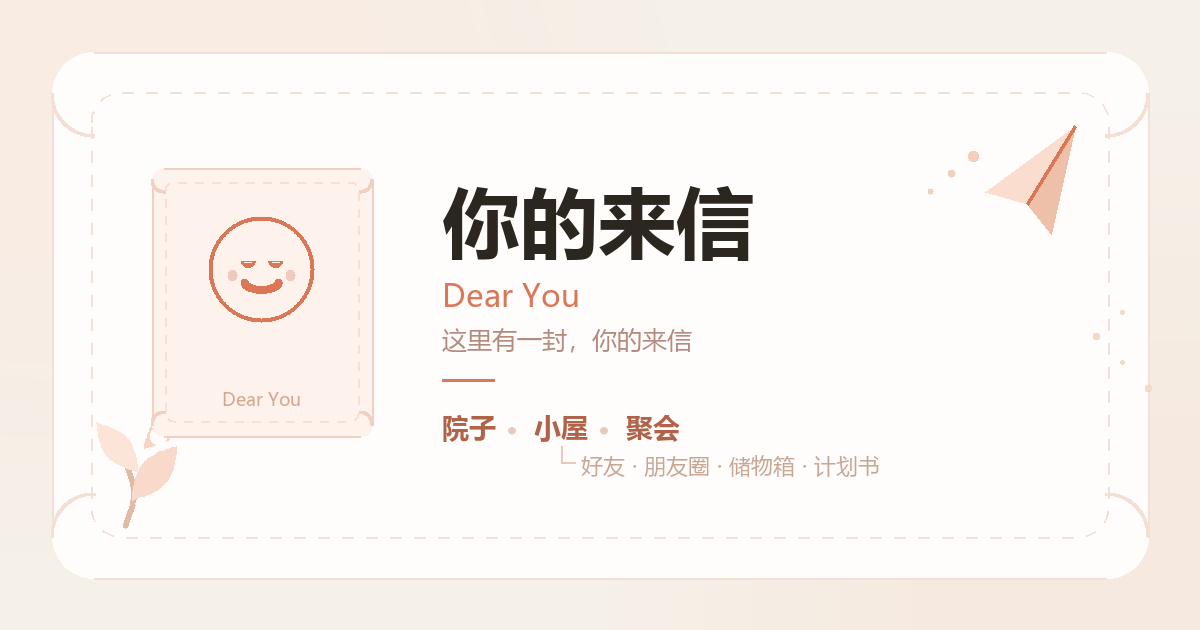
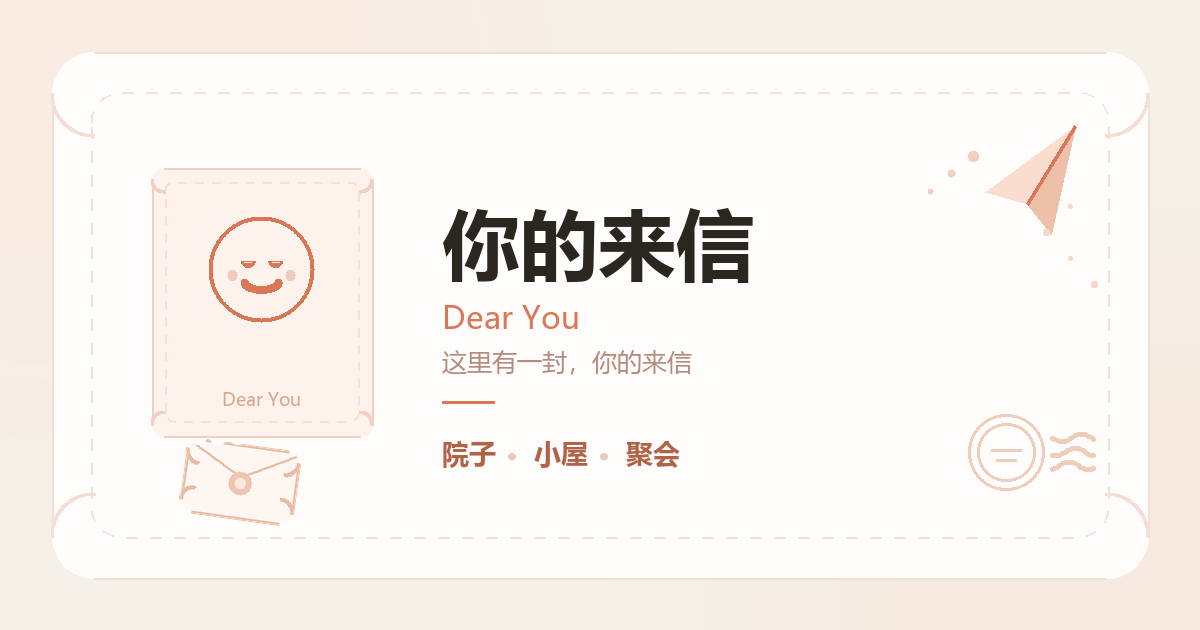
redesign: 分享卡片装饰改为「信」主题，去掉子项列表
你的两条意见：

1「主题不是信嘛」——左下那片叶子确实跑题了。
  装饰统一到「信」上：左下改信封（微倾 + 火漆印），右下加邮戳（双圈 + 日期短线 + 波浪销票纹），
  连同已有的邮票与纸飞机，四处都在同一个主题里。
  （信封是画在独立图层上旋转后贴上去的，免得手算旋转坐标。）

2「这个不要」——删掉 └ 好友 · 朋友圈 · 储物箱 · 计划书 那一整行与连接线，
  底部只留 院子 · 小屋 · 聚会 三个平级区域，干净了。
  同时把标题块整体下移 22px，让右侧重心更稳。

另：右侧小点与信封位置微调，不再压到内层虚线框和邮票。

diff --git a/scripts/make-og-image.py b/scripts/make-og-image.py
@@ -11,9 +11,9 @@
 
 版面：
     纸面 + 白卡 + 内层虚线框（边缘装饰）
-    左侧：邮票（齿孔 + 虚线内框 + 可爱笑脸）
-    右上：纸飞机；左下：叶子小枝；右下：小点
-    右侧：站名 / 英文名 / 一句话 / 三个平级区域 + 小屋的子项（树形连接）
+    左侧：邮票（齿孔 + 虚线内框 + 笑脸）
+    右上：纸飞机；左下：信封；右下：邮戳——装饰元素统一在「信」这个主题上
+    右侧：站名 / 英文名 / 一句话 / 三个平级区域（院子 · 小屋 · 聚会）
 """
 
 import math
@@ -23,7 +23,9 @@ W, H = 1200, 630
 PAPER, CARD = (245, 240, 232), (255, 253, 251)
 ACCENT, DEEP, INK, MUTED = (217, 119, 87), (177, 99, 73), (43, 38, 32), (180, 139, 126)
 LINE, STAMP = (243, 223, 214), (253, 243, 236)
-W1, W2 = (250, 221, 206), (238, 192, 170)
+W1, W2 = (250, 221, 206), (238, 192, 170)          # 纸飞机两翼
+ENV = (233, 190, 168)                              # 信封描边
+POST = (238, 205, 187)                             # 邮戳
 FONT_DIR = "C:/Windows/Fonts/"
 
 img = Image.new("RGB", (W, H), PAPER)
@@ -42,10 +44,10 @@ def text_w(text, font):
         return font.getsize(text)[0]
 
 
-def dots(pts, color, w):
+def dots(dr, pts, color, w):
     r = w / 2.0
     for (x, y) in pts:
-        d.ellipse([x - r, y - r, x + r, y + r], fill=color)
+        dr.ellipse([x - r, y - r, x + r, y + r], fill=color)
 
 
 def arc_pts(cx, cy, rx, ry, a0, a1, n=100, up=True):
@@ -59,22 +61,24 @@ def arc_pts(cx, cy, rx, ry, a0, a1, n=100, up=True):
     ]
 
 
-def rounded(box, r, fill, outline=None, w=2):
+def circle(cx, cy, r, color):
+    d.ellipse([cx - r, cy - r, cx + r, cy + r], fill=color)
+
+
+def rounded_on(dr, box, r, fill=None, outline=None, w=2):
     x0, y0, x1, y1 = box
-    d.rectangle([x0 + r, y0, x1 - r, y1], fill=fill)
-    d.rectangle([x0, y0 + r, x1, y1 - r], fill=fill)
-    for cx, cy in ((x0 + r, y0 + r), (x1 - r, y0 + r), (x0 + r, y1 - r), (x1 - r, y1 - r)):
-        d.ellipse([cx - r, cy - r, cx + r, cy + r], fill=fill)
+    if fill:
+        dr.rectangle([x0 + r, y0, x1 - r, y1], fill=fill)
+        dr.rectangle([x0, y0 + r, x1, y1 - r], fill=fill)
+        for cx, cy in ((x0 + r, y0 + r), (x1 - r, y0 + r), (x0 + r, y1 - r), (x1 - r, y1 - r)):
+            dr.ellipse([cx - r, cy - r, cx + r, cy + r], fill=fill)
     if outline:
-        dots(
-            arc_pts(x0 + r, y0 + r, r, r, 180, 270) + arc_pts(x1 - r, y0 + r, r, r, 270, 360)
-            + arc_pts(x1 - r, y1 - r, r, r, 0, 90) + arc_pts(x0 + r, y1 - r, r, r, 90, 180),
-            outline, w,
-        )
-        d.line([x0 + r, y0, x1 - r, y0], fill=outline, width=w)
-        d.line([x0 + r, y1, x1 - r, y1], fill=outline, width=w)
-        d.line([x0, y0 + r, x0, y1 - r], fill=outline, width=w)
-        d.line([x1, y0 + r, x1, y1 - r], fill=outline, width=w)
+        dots(dr, arc_pts(x0 + r, y0 + r, r, r, 180, 270) + arc_pts(x1 - r, y0 + r, r, r, 270, 360)
+             + arc_pts(x1 - r, y1 - r, r, r, 0, 90) + arc_pts(x0 + r, y1 - r, r, r, 90, 180), outline, w)
+        dr.line([x0 + r, y0, x1 - r, y0], fill=outline, width=w)
+        dr.line([x0 + r, y1, x1 - r, y1], fill=outline, width=w)
+        dr.line([x0, y0 + r, x0, y1 - r], fill=outline, width=w)
+        dr.line([x1, y0 + r, x1, y1 - r], fill=outline, width=w)
 
 
 def dashed_rounded(box, r, color, w=2, seg=11, gap=12):
@@ -111,11 +115,11 @@ def dashed_rounded(box, r, color, w=2, seg=11, gap=12):
 
 
 # ---------- 卡片 + 内层虚线框 ----------
-rounded([52, 52, W - 52, H - 52], 42, CARD, LINE)
+rounded_on(d, [52, 52, W - 52, H - 52], 42, fill=CARD, outline=LINE)
 dashed_rounded([92, 92, W - 92, H - 92], 30, LINE, 2, 11, 13)
 
 
-# ---------- 装饰：纸飞机（右上） ----------
+# ---------- 装饰一：纸飞机（右上） ----------
 def plane(ox, oy, s):
     def P(x, y):
         return (ox + x * s, oy + y * s)
@@ -125,35 +129,54 @@ def plane(ox, oy, s):
     d.polygon([A, C, D], fill=W2)
     d.line([A, C], fill=ACCENT, width=max(2, int(1.1 * s)))
     for i, (x, y) in enumerate([(-4, 10), (-11, 16), (-18, 22)]):
-        dots([P(x, y)], (243, 208, 190), max(2, int((1.6 - i * 0.4) * s * 2.2)))
+        dots(d, [P(x, y)], (243, 208, 190), max(2, int((1.6 - i * 0.4) * s * 2.2)))
 
 
 plane(985, 126, 3.0)
 
 
-# ---------- 装饰：叶子小枝（左下，整个留在虚线框内） ----------
-def leaf(cx, cy, angle_deg, length, width, color):
-    a = math.radians(angle_deg)
-    pts = []
-    for side in (1, -1):
-        rng = range(0, 33) if side == 1 else range(32, -1, -1)
-        for i in rng:
-            t = i / 32.0
-            px, py = t * length, side * math.sin(math.pi * t) * width / 2.0
-            pts.append((cx + px * math.cos(a) - py * math.sin(a),
-                        cy + px * math.sin(a) + py * math.cos(a)))
-    d.polygon(pts, fill=color)
+# ---------- 装饰二：信封（左下，微微倾斜） ----------
+def envelope(cx, cy, width, angle):
+    h = int(width * 0.66)
+    pad = 24
+    layer = Image.new("RGBA", (width + pad * 2, h + pad * 2), (0, 0, 0, 0))
+    dl = ImageDraw.Draw(layer)
+    x0, y0 = pad, pad
+    x1, y1 = pad + width, pad + h
+    rounded_on(dl, [x0, y0, x1, y1], 12, fill=(253, 246, 241), outline=ENV, w=3)
+    # 信封盖
+    dl.line([x0 + 4, y0 + 4, (x0 + x1) / 2, y0 + h * 0.44], fill=ENV, width=3)
+    dl.line([x1 - 4, y0 + 4, (x0 + x1) / 2, y0 + h * 0.44], fill=ENV, width=3)
+    # 火漆印
+    scx, scy = (x0 + x1) / 2, y0 + h * 0.44 + 6
+    dl.ellipse([scx - 11, scy - 11, scx + 11, scy + 11], fill=(240, 196, 176))
+    dl.ellipse([scx - 5, scy - 5, scx + 5, scy + 5], fill=(250, 232, 223))
+    layer = layer.rotate(angle, resample=Image.BICUBIC, expand=True)
+    img.paste(layer, (int(cx - layer.width / 2), int(cy - layer.height / 2)), layer)
 
 
-stem = [(126 + 8 * math.sin(i / 22 * math.pi), 526 - i * 2.9) for i in range(23)]
-dots(stem, (226, 186, 166), 5)
-for (bx, by), ang, L, Wd, col in [((132, 500), -50, 70, 30, (249, 218, 202)),
-                                  ((138, 472), -130, 64, 27, (252, 228, 216)),
-                                  ((144, 448), -44, 56, 23, (247, 212, 196))]:
-    leaf(bx, by, ang, L, Wd, col)
+envelope(240, 482, 112, -8)
 
-for i, (x, y) in enumerate([(1096, 336), (1122, 362), (1148, 388), (1122, 312)]):
-    dots([(x, y)], (246, 216, 200), 6 - (i % 2) * 2)
+
+# ---------- 装饰三：邮戳（右下） ----------
+def postmark(cx, cy, r):
+    circle(cx, cy, r, POST)
+    circle(cx, cy, r - 3, CARD)
+    circle(cx, cy, r - 9, POST)
+    circle(cx, cy, r - 12, CARD)
+    # 中间的日期短线
+    d.line([cx - 15, cy - 2, cx + 15, cy - 2], fill=POST, width=3)
+    d.line([cx - 10, cy + 8, cx + 10, cy + 8], fill=POST, width=3)
+    # 右侧的波浪销票纹
+    for k in range(3):
+        pts = [(cx + r + 8 + i * 2.6, cy - 14 + k * 14 + 4 * math.sin(i / 2.4 + k)) for i in range(17)]
+        dots(d, pts, POST, 4)
+
+
+postmark(1006, 452, 38)
+
+for i, (x, y) in enumerate([(1046, 232), (1070, 258), (1094, 284), (1070, 206)]):
+    dots(d, [(x, y)], (246, 216, 200), 6 - (i % 2) * 2)
 
 
 # ---------- 邮票（含笑脸） ----------
@@ -164,7 +187,7 @@ for x in range(sx0 + 6, sx1 - 4, 20):
 for y in range(sy0 + 6, sy1 - 4, 20):
     for x in (sx0, sx1):
         d.ellipse([x - 8, y - 8, x + 8, y + 8], fill=CARD)
-rounded([sx0, sy0, sx1, sy1], 12, STAMP, (240, 208, 192), 2)
+rounded_on(d, [sx0, sy0, sx1, sy1], 12, fill=STAMP, outline=(240, 208, 192))
 dashed_rounded([sx0 + 14, sy0 + 14, sx1 - 14, sy1 - 14], 8, (247, 224, 210), 2, 8, 9)
 
 
@@ -181,7 +204,7 @@ def draw_face(ox, oy, size, color, bg):
     for cx in (9.6, 14.4):
         d.polygon(arc_pts(*P(cx, 10.5), 1.2 * k, 1.05 * k, 180, 360)
                   + arc_pts(*P(cx, 10.5), 1.2 * k, 0.35 * k, 180, 360), fill=color)
-    dots(arc_pts(*P(12, 14.2), 3.0 * k, 1.35 * k, 0, 180, up=False), color, max(2.0, 1.15 * k))
+    dots(d, arc_pts(*P(12, 14.2), 3.0 * k, 1.35 * k, 0, 180, up=False), color, max(2.0, 1.15 * k))
     for cx in (6.9, 17.1):
         d.ellipse([P(cx - 0.85, 13 - 0.85), P(cx + 0.85, 13 + 0.85)], fill=(240, 202, 190))
 
@@ -192,7 +215,6 @@ f_title = ImageFont.truetype(FONT_DIR + "msyhbd.ttc", 78)
 f_sub = ImageFont.truetype(FONT_DIR + "msyh.ttc", 31)
 f_desc = ImageFont.truetype(FONT_DIR + "msyh.ttc", 25)
 f_top = ImageFont.truetype(FONT_DIR + "msyhbd.ttc", 27)
-f_child = ImageFont.truetype(FONT_DIR + "msyh.ttc", 22)
 f_tiny = ImageFont.truetype(FONT_DIR + "msyh.ttc", 18)
 
 label = "Dear You"
@@ -200,24 +222,18 @@ d.text(((sx0 + sx1) / 2 - text_w(label, f_tiny) / 2, sy1 - 50), label, font=f_ti
 
 # ---------- 文字 ----------
 tx = 442
-d.text((tx, 168), "你的来信", font=f_title, fill=INK)
-d.text((tx, 274), "Dear You", font=f_sub, fill=ACCENT)
-d.text((tx, 322), "这里有一封，你的来信", font=f_desc, fill=MUTED)
-d.line([tx, 380, tx + 52, 380], fill=ACCENT, width=3)
+d.text((tx, 190), "你的来信", font=f_title, fill=INK)
+d.text((tx, 296), "Dear You", font=f_sub, fill=ACCENT)
+d.text((tx, 344), "这里有一封，你的来信", font=f_desc, fill=MUTED)
+d.line([tx, 402, tx + 52, 402], fill=ACCENT, width=3)
 
 # 三个平级区域
-top_y = 408
+top_y = 434
 xs = [tx, tx + 92, tx + 184]
 for i, (txt, x) in enumerate(zip(["院子", "小屋", "聚会"], xs)):
     d.text((x, top_y), txt, font=f_top, fill=DEEP)
     if i < 2:
         d.text((x + 64, top_y + 2), "·", font=f_top, fill=(230, 202, 188))
-
-# 子项：连接线挂在「小屋」下面，表明从属，不与父级并列
-parent_cx = xs[1] + 27
-d.line([parent_cx, top_y + 38, parent_cx, top_y + 54], fill=(233, 202, 184), width=2)
-d.line([parent_cx, top_y + 54, parent_cx + 14, top_y + 54], fill=(233, 202, 184), width=2)
-d.text((parent_cx + 20, top_y + 42), "好友 · 朋友圈 · 储物箱 · 计划书", font=f_child, fill=(200, 166, 150))
 
 img.save("app/opengraph-image.png")
 print("已写入 app/opengraph-image.png")
